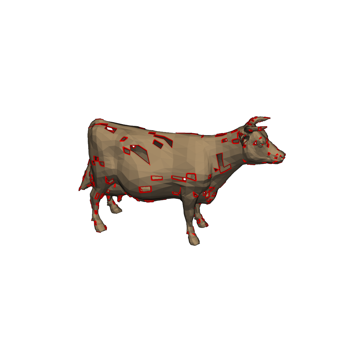
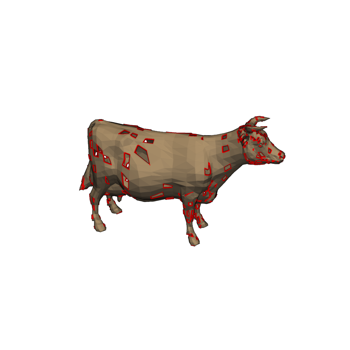
Update docs after building Travis build 81 of pyvista/pymeshfix
The docs were built from the branch 'master' against the commit
06c404d56e2c0a813a22af24c77f28b676d2e076.

The Travis build that generated this commit is at
https://travis-ci.org/pyvista/pymeshfix/jobs/598944053.

The doctr command that was run is

    /home/travis/virtualenv/python3.7.1/bin/doctr deploy --built-docs ./docs/_build/html/ .

Changed region(s): [[0.2286, 0.3143, 0.8286, 0.6857]]

diff --git a/searchindex.js b/searchindex.js
@@ -1,1 +1,1 @@
-Search.setIndex({docnames:["api","examples/bunny","examples/cow","examples/index","examples/sg_execution_times","examples/torso","index"],envversion:{"sphinx.domains.c":1,"sphinx.domains.changeset":1,"sphinx.domains.cpp":1,"sphinx.domains.javascript":1,"sphinx.domains.math":2,"sphinx.domains.python":1,"sphinx.domains.rst":1,"sphinx.domains.std":1,sphinx:56},filenames:["api.rst","examples/bunny.rst","examples/cow.rst","examples/index.rst","examples/sg_execution_times.rst","examples/torso.rst","index.rst"],objects:{"pymeshfix.MeshFix":{extract_holes:[0,1,1,""],load_arrays:[0,1,1,""],mesh:[0,2,1,""],plot:[0,1,1,""],repair:[0,1,1,""],save:[0,1,1,""],write:[0,1,1,""]},pymeshfix:{MeshFix:[0,0,1,""],_meshfix:[0,3,0,"-"],meshfix:[0,3,0,"-"]}},objnames:{"0":["py","class","Python class"],"1":["py","method","Python method"],"2":["py","attribute","Python attribute"],"3":["py","module","Python module"]},objtypes:{"0":"py:class","1":"py:method","2":"py:attribute","3":"py:module"},terms:{"083e":5,"0x7f055c1773a8":5,"0x7f055c1774c8":2,"0x7f055ca9f888":2,"320e":5,"442e":5,"446e":2,"624e":5,"637e":2,"680e":5,"696e":2,"701e":2,"720e":5,"760e":2,"998e":2,"case":6,"class":0,"default":0,"float":6,"import":[1,2,5,6],"new":0,"public":6,"return":[0,6],"true":[0,1,2,5],"while":6,FOR:6,One:6,The:6,There:6,Use:2,_meshfix:6,abov:6,absolut:5,access:[0,6],add:2,add_mesh:[1,2,5],addit:0,again:6,agreement:6,all:[0,6],allow:6,along:5,altern:6,ani:6,appi:5,approach:6,arg:0,argument:0,arrai:[0,2,5,6],ascii:0,assum:6,attempt:[0,6],atten:[0,6],author:6,award:6,base:[0,6],been:6,befor:0,begin:0,bell:6,better:6,binari:0,bool:0,both:0,bound:[2,5,6],boundari:[0,6],bring:6,bunni:[3,4],cad:6,camera:[1,2],camera_posit:[1,2,5],can:[0,6],cannot:6,cast:2,cell:[2,5],charact:0,check:6,cite:6,clean:[0,6],clean_from_arrai:6,clean_from_fil:6,click:[1,2,5],clone:6,close:6,cnr:6,coars:6,code:[1,2,5],color:[1,2,5],com:6,commerci:6,commun:6,complex:5,compon:[0,5,6],comput:6,contain:0,contract:6,control:6,copi:6,correct:6,could:6,cow:[3,4],cpo:[1,2,5],cpos_ear:5,creat:6,cython:[0,6],data:0,debug:0,defect:6,defin:1,degener:6,degeneraci:[1,2,5],deprec:[0,2],depth:[1,2,5],design:6,detail:6,digit:6,directli:6,disabl:0,disk:0,distribut:6,doi:6,download:[1,2,5],download_bunni:1,download_cow:2,download_torso:5,drive:6,dual:6,each:0,ear:5,eas:6,either:[0,6],element:6,emphas:5,enabl:0,enable_eye_dome_light:[1,2,5],ensur:5,even:6,exampl:[1,2,4,5],execut:4,extens:0,extract:[0,1,5],extract_geometri:2,extract_hol:[0,1,2,5],eye_dome_light:5,face:[0,6],fail:6,fals:0,faster:0,fclean:6,file:[0,4],filenam:0,filetyp:0,fill:6,fill_small_boundari:6,filter:5,fit:6,fix:[1,2,5],flaw:6,follow:[0,6],format:6,foundat:6,free:6,from:[0,1,2,5,6],ftype:0,full:[1,2,5],galleri:[1,2,3,5],gener:[1,2,3,5,6],git:6,github:6,gnu:6,gpl:6,hard:6,has:6,have:6,help:[1,2,5],here:[1,2,5,6],hole:[0,1,2,5,6],holei:[3,4],holy_cow:2,hope:6,how:6,http:6,idea:6,imati:6,impli:6,indic:0,infer:0,infil:6,inner_loop:6,inplac:0,input:6,instead:2,int32:6,interfac:0,intersect:[1,2,5,6],invert:2,ipynb:[1,2,5],isol:0,join:[0,6],join_closest_compon:6,joincomp:0,jupyt:[1,2,5],keyword:0,kwarg:0,largest:0,later:6,left:6,leverag:6,librari:6,licens:6,lightweight:6,line:0,line_width:[1,2,5],list:6,load:[0,6],load_arrai:[0,6],loadfil:6,locat:2,mai:[0,6],main:6,marco:[0,6],max_it:6,memori:6,merchant:6,mesh:[0,1,2,5,6],meshfix:[0,1,2,5,6],method:0,might:6,minut:[1,2,5],model:6,modifi:6,modul:[0,6],more:6,much:0,must:6,n_cell:2,nativ:6,ndarrai:0,nearbi:[0,6],necessari:6,need:5,nice:2,note:0,notebook:[1,2,5],numpi:[0,2,6],object:[0,6],occurr:6,one:0,open:0,option:[0,6],org:6,other:6,out:[1,2,5,6],outfil:6,outlin:[1,2,5],output:6,over:6,overridden:0,paper:6,paramet:0,part:[5,6],particular:6,patch:[1,2,5],percept:[1,2,5],perform:[0,6],perfrom:5,pip:6,pleas:6,plot:[0,1,2,5,6],plotter:[1,2,5],ply:[0,6],point:[0,2,5],polydata:[0,2,5],polygon:6,polyhedr:5,polyhedron:6,portabl:6,posit:1,present:6,print:[0,2,5,6],process:0,produc:6,program:6,proper:6,publish:6,purpos:6,pymeshfix:[0,1,2,5],pypi:6,python:[0,1,2,5,6],pytmesh:6,pyvista:[0,1,2,5,6],rand:2,random:2,raw:6,reach:6,read:6,readi:1,reason:6,redistribut:6,refer:6,region:6,remov:[0,5,6],remove_smallest_compon:0,render:[1,2],repair:[0,1,2,5,6],repres:6,requir:6,research:6,reserv:6,result:[2,6],return_arrai:6,right:6,root:2,run:[1,2,5,6],s00371:6,same:6,save:[0,6],save_fil:6,script:[1,2,5],second:[1,2,5],see:6,self:6,set:6,should:[0,6],show:[0,1,2,5],show_edg:5,show_hol:0,simpl:0,simpli:5,singl:6,singular:6,small:5,softwar:6,solid:6,sort:6,sourc:[1,2,5,6],specif:6,specifi:0,speed:6,sphinx:[1,2,3,5],sphinx_gallery_thumbnail_numb:[1,2,5],springer:6,stl:0,str:0,string:0,subtl:5,surfac:[0,6],take:6,term:6,tessel:6,test:6,tetrahedr:0,than:0,thei:6,them:0,therefor:6,therein:6,thi:[0,5,6],three:0,threshold:2,thu:6,tight:5,time:[1,2,5],tin:6,tmesh:6,torso:[3,4],total:[1,2,4,5],tri_filt:[2,5],triangl:[0,5,6],triangul:2,triangular:0,txt:6,type:0,typic:6,unavail:6,under:6,understand:6,unless:0,unmodifi:6,updat:0,use:6,used:6,useful:6,user:6,uses:6,using:[0,6],vclean:6,verbos:[0,1,2,5],version:6,vertex:[0,6],view:6,visual:6,vtk:0,vtkinterfac:6,warn:2,warranti:6,water:5,watertight:6,where:[5,6],whistl:6,win:6,wish:6,with_vtk:6,within:6,wonder:6,work:6,wrap:0,wrapper:[0,6],write:[0,6],written:0,www:6,xyz:0,you:6,your:6},titles:["API Reference","Bunny","Holey Cow","Examples","Computation times","Torso","PyMeshFix"],titleterms:{algorithm:6,api:0,bunni:1,citat:6,complet:6,comput:4,copyright:6,cow:2,depend:6,easi:6,exampl:[3,6],holei:2,instal:6,polici:6,pymeshfix:6,refer:0,time:4,torso:5,vtk:6,without:6}})
+Search.setIndex({docnames:["api","examples/bunny","examples/cow","examples/index","examples/sg_execution_times","examples/torso","index"],envversion:{"sphinx.domains.c":1,"sphinx.domains.changeset":1,"sphinx.domains.cpp":1,"sphinx.domains.javascript":1,"sphinx.domains.math":2,"sphinx.domains.python":1,"sphinx.domains.rst":1,"sphinx.domains.std":1,sphinx:56},filenames:["api.rst","examples/bunny.rst","examples/cow.rst","examples/index.rst","examples/sg_execution_times.rst","examples/torso.rst","index.rst"],objects:{"pymeshfix.MeshFix":{extract_holes:[0,1,1,""],load_arrays:[0,1,1,""],mesh:[0,2,1,""],plot:[0,1,1,""],repair:[0,1,1,""],save:[0,1,1,""],write:[0,1,1,""]},pymeshfix:{MeshFix:[0,0,1,""],_meshfix:[0,3,0,"-"],meshfix:[0,3,0,"-"]}},objnames:{"0":["py","class","Python class"],"1":["py","method","Python method"],"2":["py","attribute","Python attribute"],"3":["py","module","Python module"]},objtypes:{"0":"py:class","1":"py:method","2":"py:attribute","3":"py:module"},terms:{"083e":5,"0x7f89027236a8":2,"0x7f8902723888":5,"0x7f8902fdfdc8":2,"320e":5,"442e":5,"446e":2,"624e":5,"637e":2,"680e":5,"696e":2,"701e":2,"720e":5,"760e":2,"998e":2,"case":6,"class":0,"default":0,"float":6,"import":[1,2,5,6],"new":0,"public":6,"return":[0,6],"true":[0,1,2,5],"while":6,FOR:6,One:6,The:6,There:6,Use:2,_meshfix:6,abov:6,absolut:5,access:[0,6],add:2,add_mesh:[1,2,5],addit:0,again:6,agreement:6,all:[0,6],allow:6,along:5,altern:6,ani:6,appi:5,approach:6,arg:0,argument:0,arrai:[0,2,5,6],ascii:0,assum:6,attempt:[0,6],atten:[0,6],author:6,award:6,base:[0,6],been:6,befor:0,begin:0,bell:6,better:6,binari:0,bool:0,both:0,bound:[2,5,6],boundari:[0,6],bring:6,bunni:[3,4],cad:6,camera:[1,2],camera_posit:[1,2,5],can:[0,6],cannot:6,cast:2,cell:[2,5],charact:0,check:6,cite:6,clean:[0,6],clean_from_arrai:6,clean_from_fil:6,click:[1,2,5],clone:6,close:6,cnr:6,coars:6,code:[1,2,5],color:[1,2,5],com:6,commerci:6,commun:6,complex:5,compon:[0,5,6],comput:6,contain:0,contract:6,control:6,copi:6,correct:6,could:6,cow:[3,4],cpo:[1,2,5],cpos_ear:5,creat:6,cython:[0,6],data:0,debug:0,defect:6,defin:1,degener:6,degeneraci:[1,2,5],deprec:[0,2],depth:[1,2,5],design:6,detail:6,digit:6,directli:6,disabl:0,disk:0,distribut:6,doi:6,download:[1,2,5],download_bunni:1,download_cow:2,download_torso:5,drive:6,dual:6,each:0,ear:5,eas:6,either:[0,6],element:6,emphas:5,enabl:0,enable_eye_dome_light:[1,2,5],ensur:5,even:6,exampl:[1,2,4,5],execut:4,extens:0,extract:[0,1,5],extract_geometri:2,extract_hol:[0,1,2,5],eye_dome_light:5,face:[0,6],fail:6,fals:0,faster:0,fclean:6,file:[0,4],filenam:0,filetyp:0,fill:6,fill_small_boundari:6,filter:5,fit:6,fix:[1,2,5],flaw:6,follow:[0,6],format:6,foundat:6,free:6,from:[0,1,2,5,6],ftype:0,full:[1,2,5],galleri:[1,2,3,5],gener:[1,2,3,5,6],git:6,github:6,gnu:6,gpl:6,hard:6,has:6,have:6,help:[1,2,5],here:[1,2,5,6],hole:[0,1,2,5,6],holei:[3,4],holy_cow:2,hope:6,how:6,http:6,idea:6,imati:6,impli:6,indic:0,infer:0,infil:6,inner_loop:6,inplac:0,input:6,instead:2,int32:6,interfac:0,intersect:[1,2,5,6],invert:2,ipynb:[1,2,5],isol:0,join:[0,6],join_closest_compon:6,joincomp:0,jupyt:[1,2,5],keyword:0,kwarg:0,largest:0,later:6,left:6,leverag:6,librari:6,licens:6,lightweight:6,line:0,line_width:[1,2,5],list:6,load:[0,6],load_arrai:[0,6],loadfil:6,locat:2,mai:[0,6],main:6,marco:[0,6],max_it:6,memori:6,merchant:6,mesh:[0,1,2,5,6],meshfix:[0,1,2,5,6],method:0,might:6,minut:[1,2,5],model:6,modifi:6,modul:[0,6],more:6,much:0,must:6,n_cell:2,nativ:6,ndarrai:0,nearbi:[0,6],necessari:6,need:5,nice:2,note:0,notebook:[1,2,5],numpi:[0,2,6],object:[0,6],occurr:6,one:0,open:0,option:[0,6],org:6,other:6,out:[1,2,5,6],outfil:6,outlin:[1,2,5],output:6,over:6,overridden:0,paper:6,paramet:0,part:[5,6],particular:6,patch:[1,2,5],percept:[1,2,5],perform:[0,6],perfrom:5,pip:6,pleas:6,plot:[0,1,2,5,6],plotter:[1,2,5],ply:[0,6],point:[0,2,5],polydata:[0,2,5],polygon:6,polyhedr:5,polyhedron:6,portabl:6,posit:1,present:6,print:[0,2,5,6],process:0,produc:6,program:6,proper:6,publish:6,purpos:6,pymeshfix:[0,1,2,5],pypi:6,python:[0,1,2,5,6],pytmesh:6,pyvista:[0,1,2,5,6],rand:2,random:2,raw:6,reach:6,read:6,readi:1,reason:6,redistribut:6,refer:6,region:6,remov:[0,5,6],remove_smallest_compon:0,render:[1,2],repair:[0,1,2,5,6],repres:6,requir:6,research:6,reserv:6,result:[2,6],return_arrai:6,right:6,root:2,run:[1,2,5,6],s00371:6,same:6,save:[0,6],save_fil:6,script:[1,2,5],second:[1,2,5],see:6,self:6,set:6,should:[0,6],show:[0,1,2,5],show_edg:5,show_hol:0,simpl:0,simpli:5,singl:6,singular:6,small:5,softwar:6,solid:6,sort:6,sourc:[1,2,5,6],specif:6,specifi:0,speed:6,sphinx:[1,2,3,5],sphinx_gallery_thumbnail_numb:[1,2,5],springer:6,stl:0,str:0,string:0,subtl:5,surfac:[0,6],take:6,term:6,tessel:6,test:6,tetrahedr:0,than:0,thei:6,them:0,therefor:6,therein:6,thi:[0,5,6],three:0,threshold:2,thu:6,tight:5,time:[1,2,5],tin:6,tmesh:6,torso:[3,4],total:[1,2,4,5],tri_filt:[2,5],triangl:[0,5,6],triangul:2,triangular:0,txt:6,type:0,typic:6,unavail:6,under:6,understand:6,unless:0,unmodifi:6,updat:0,use:6,used:6,useful:6,user:6,uses:6,using:[0,6],vclean:6,verbos:[0,1,2,5],version:6,vertex:[0,6],view:6,visual:6,vtk:0,vtkinterfac:6,warn:2,warranti:6,water:5,watertight:6,where:[5,6],whistl:6,win:6,wish:6,with_vtk:6,within:6,wonder:6,work:6,wrap:0,wrapper:[0,6],write:[0,6],written:0,www:6,xyz:0,you:6,your:6},titles:["API Reference","Bunny","Holey Cow","Examples","Computation times","Torso","PyMeshFix"],titleterms:{algorithm:6,api:0,bunni:1,citat:6,complet:6,comput:4,copyright:6,cow:2,depend:6,easi:6,exampl:[3,6],holei:2,instal:6,polici:6,pymeshfix:6,refer:0,time:4,torso:5,vtk:6,without:6}})

diff --git a/examples/cow.html b/examples/cow.html
@@ -224,9 +224,9 @@
 </div>
 <p class="sphx-glr-script-out">Out:</p>
 <div class="sphx-glr-script-out highlight-none notranslate"><div class="highlight"><pre><span></span>WARNING:root:DEPRECATED: ``.tri_filter`` is deprecated. Use ``.triangulate`` instead.
-PolyData (0x7f055c1774c8)
-  N Cells:      5218
-  N Points:     2903
+PolyData (0x7f89027236a8)
+  N Cells:      5211
+  N Points:     2902
   X Bounds:     -4.446e+00, 5.998e+00
   Y Bounds:     -3.637e+00, 2.760e+00
   Z Bounds:     -1.701e+00, 1.701e+00
@@ -257,7 +257,7 @@ PolyData (0x7f055c1774c8)
 </div>
 <p class="sphx-glr-script-out">Out:</p>
 <div class="sphx-glr-script-out highlight-none notranslate"><div class="highlight"><pre><span></span>Patching holes...
-Patched 202 holes
+Patched 200 holes
 Fixing degeneracies and intersections
 </pre></div>
 </div>
@@ -267,9 +267,9 @@ Fixing degeneracies and intersections
 </pre></div>
 </div>
 <p class="sphx-glr-script-out">Out:</p>
-<div class="sphx-glr-script-out highlight-none notranslate"><div class="highlight"><pre><span></span>PolyData (0x7f055ca9f888)
-  N Cells:      5410
-  N Points:     2707
+<div class="sphx-glr-script-out highlight-none notranslate"><div class="highlight"><pre><span></span>PolyData (0x7f8902fdfdc8)
+  N Cells:      5448
+  N Points:     2726
   X Bounds:     -3.696e+00, 5.998e+00
   Y Bounds:     -3.637e+00, 2.760e+00
   Z Bounds:     -1.701e+00, 1.701e+00
@@ -280,7 +280,7 @@ Fixing degeneracies and intersections
 </pre></div>
 </div>
 <img alt="../_images/sphx_glr_cow_002.png" class="sphx-glr-single-img" src="../_images/sphx_glr_cow_002.png" />
-<p class="sphx-glr-timing"><strong>Total running time of the script:</strong> ( 0 minutes  5.148 seconds)</p>
+<p class="sphx-glr-timing"><strong>Total running time of the script:</strong> ( 0 minutes  8.773 seconds)</p>
 <div class="sphx-glr-footer class sphx-glr-footer-example docutils container" id="sphx-glr-download-examples-cow-py">
 <div class="sphx-glr-download docutils container">
 <p><a class="reference download internal" download="" href="../_downloads/700f1bf357ea69088c0a34b0aa306d26/cow.py"><code class="xref download docutils literal notranslate"><span class="pre">Download</span> <span class="pre">Python</span> <span class="pre">source</span> <span class="pre">code:</span> <span class="pre">cow.py</span></code></a></p>

diff --git a/examples/sg_execution_times.html b/examples/sg_execution_times.html
@@ -193,11 +193,11 @@
             
   <div class="section" id="computation-times">
 <span id="sphx-glr-examples-sg-execution-times"></span><h1>Computation times<a class="headerlink" href="#computation-times" title="Permalink to this headline">¶</a></h1>
-<p><strong>00:34.441</strong> total execution time for <strong>examples</strong> files:</p>
+<p><strong>00:55.592</strong> total execution time for <strong>examples</strong> files:</p>
 <ul class="simple">
-<li><p><strong>00:16.440</strong>: <a class="reference internal" href="torso.html#sphx-glr-examples-torso-py"><span class="std std-ref">Torso</span></a> (<code class="docutils literal notranslate"><span class="pre">torso.py</span></code>)</p></li>
-<li><p><strong>00:12.852</strong>: <a class="reference internal" href="bunny.html#sphx-glr-examples-bunny-py"><span class="std std-ref">Bunny</span></a> (<code class="docutils literal notranslate"><span class="pre">bunny.py</span></code>)</p></li>
-<li><p><strong>00:05.148</strong>: <a class="reference internal" href="cow.html#sphx-glr-examples-cow-py"><span class="std std-ref">Holey Cow</span></a> (<code class="docutils literal notranslate"><span class="pre">cow.py</span></code>)</p></li>
+<li><p><strong>00:27.670</strong>: <a class="reference internal" href="torso.html#sphx-glr-examples-torso-py"><span class="std std-ref">Torso</span></a> (<code class="docutils literal notranslate"><span class="pre">torso.py</span></code>)</p></li>
+<li><p><strong>00:19.149</strong>: <a class="reference internal" href="bunny.html#sphx-glr-examples-bunny-py"><span class="std std-ref">Bunny</span></a> (<code class="docutils literal notranslate"><span class="pre">bunny.py</span></code>)</p></li>
+<li><p><strong>00:08.773</strong>: <a class="reference internal" href="cow.html#sphx-glr-examples-cow-py"><span class="std std-ref">Holey Cow</span></a> (<code class="docutils literal notranslate"><span class="pre">cow.py</span></code>)</p></li>
 </ul>
 </div>
 

diff --git a/examples/torso.html b/examples/torso.html
@@ -219,7 +219,7 @@ parts of the mesh</p>
 </pre></div>
 </div>
 <p class="sphx-glr-script-out">Out:</p>
-<div class="sphx-glr-script-out highlight-none notranslate"><div class="highlight"><pre><span></span>PolyData (0x7f055c1773a8)
+<div class="sphx-glr-script-out highlight-none notranslate"><div class="highlight"><pre><span></span>PolyData (0x7f8902723888)
   N Cells:      12448
   N Points:     12015
   X Bounds:     -1.680e+02, 1.720e+02
@@ -282,7 +282,7 @@ Fixing degeneracies and intersections
 </pre></div>
 </div>
 <img alt="../_images/sphx_glr_torso_004.png" class="sphx-glr-single-img" src="../_images/sphx_glr_torso_004.png" />
-<p class="sphx-glr-timing"><strong>Total running time of the script:</strong> ( 0 minutes  16.440 seconds)</p>
+<p class="sphx-glr-timing"><strong>Total running time of the script:</strong> ( 0 minutes  27.670 seconds)</p>
 <div class="sphx-glr-footer class sphx-glr-footer-example docutils container" id="sphx-glr-download-examples-torso-py">
 <div class="sphx-glr-download docutils container">
 <p><a class="reference download internal" download="" href="../_downloads/988781b05954ec5068adbfe7a980b827/torso.py"><code class="xref download docutils literal notranslate"><span class="pre">Download</span> <span class="pre">Python</span> <span class="pre">source</span> <span class="pre">code:</span> <span class="pre">torso.py</span></code></a></p>

diff --git a/examples/bunny.html b/examples/bunny.html
@@ -255,7 +255,7 @@ Fixing degeneracies and intersections
 </pre></div>
 </div>
 <img alt="../_images/sphx_glr_bunny_003.png" class="sphx-glr-single-img" src="../_images/sphx_glr_bunny_003.png" />
-<p class="sphx-glr-timing"><strong>Total running time of the script:</strong> ( 0 minutes  12.852 seconds)</p>
+<p class="sphx-glr-timing"><strong>Total running time of the script:</strong> ( 0 minutes  19.149 seconds)</p>
 <div class="sphx-glr-footer class sphx-glr-footer-example docutils container" id="sphx-glr-download-examples-bunny-py">
 <div class="sphx-glr-download docutils container">
 <p><a class="reference download internal" download="" href="../_downloads/81a10a6450959c49a589aa8cee630836/bunny.py"><code class="xref download docutils literal notranslate"><span class="pre">Download</span> <span class="pre">Python</span> <span class="pre">source</span> <span class="pre">code:</span> <span class="pre">bunny.py</span></code></a></p>
